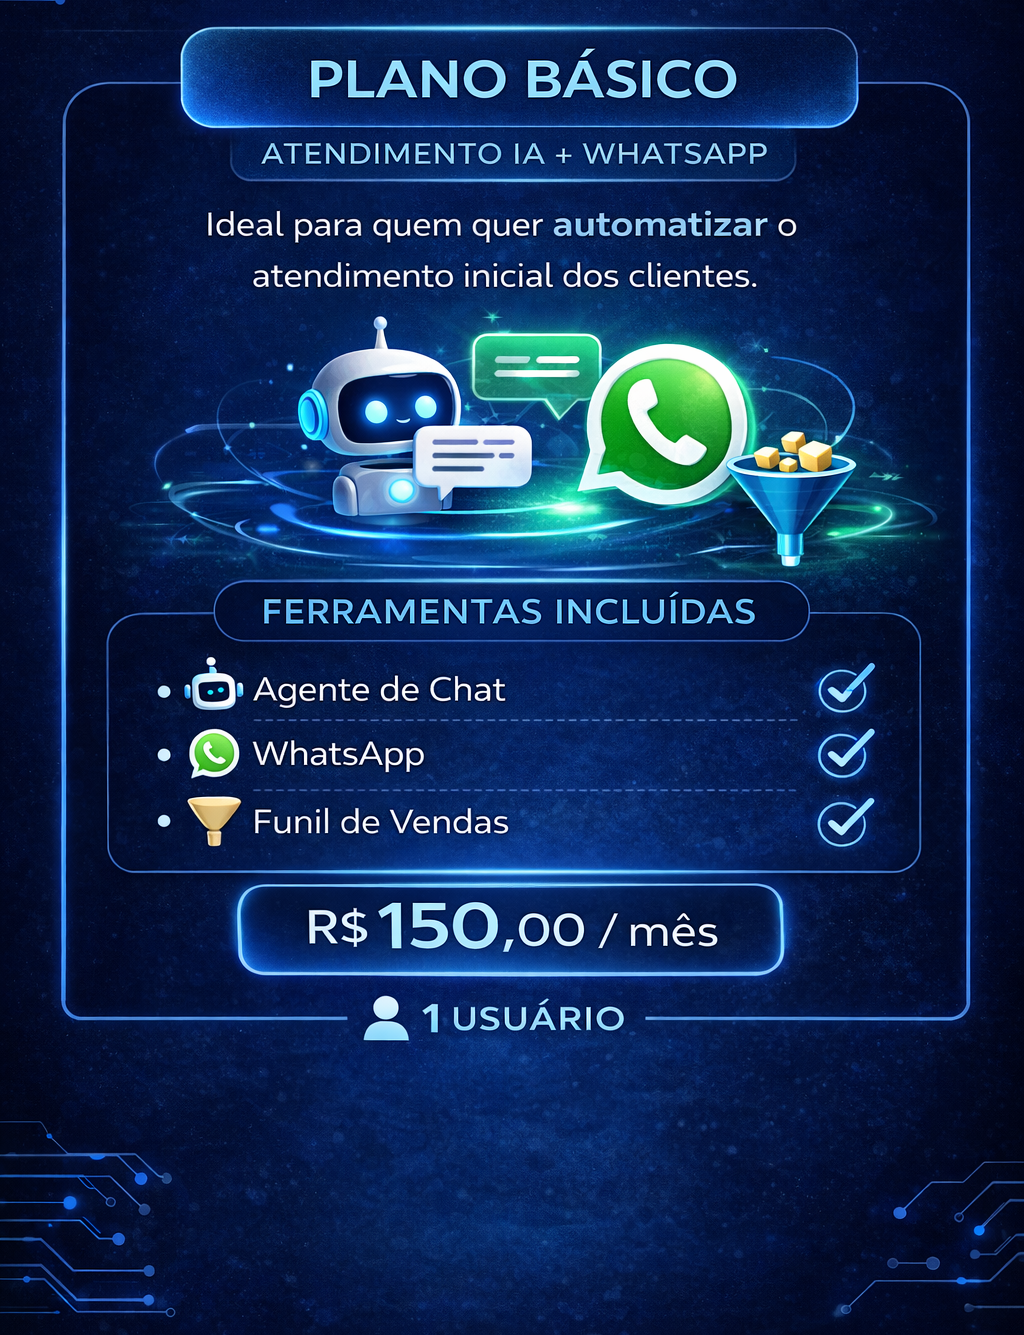
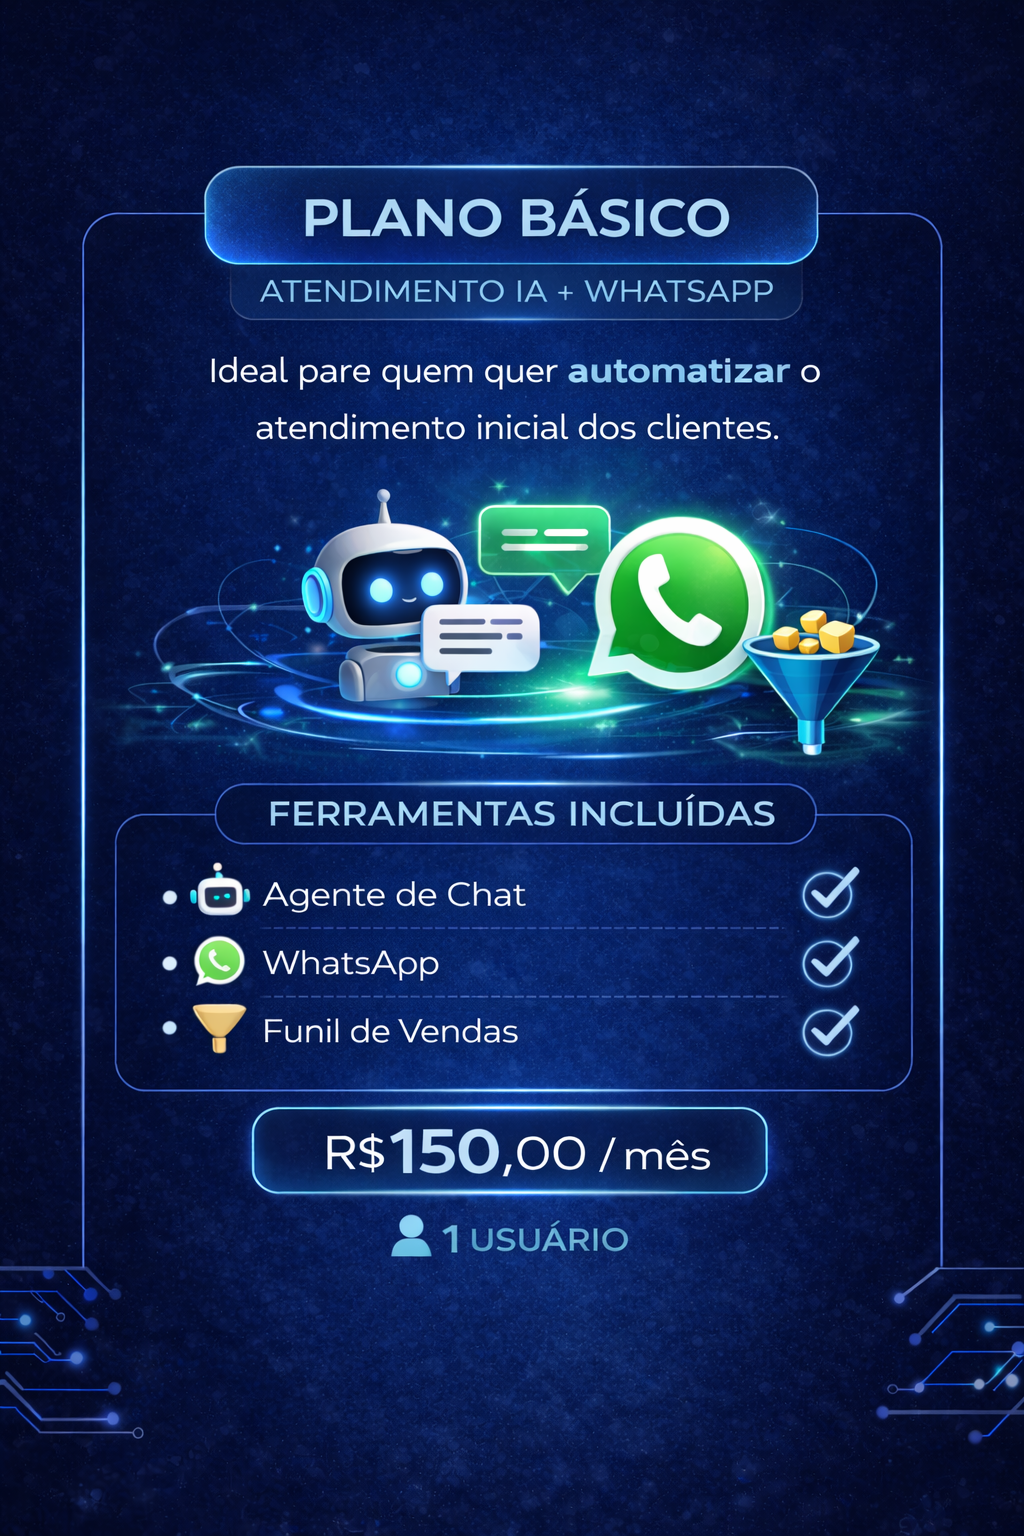
ajustes dos cards dos planos, e padronização

diff --git a/index.html b/index.html
@@ -81,7 +81,9 @@
 
             <!-- Plano Básico -->
             <div class="plano" data-plan="basico" data-tools="<table style='width:100%; border-collapse: collapse;'><tr><td style='padding:2px 8px 2px 0;'>• Atendimento IA</td><td style='padding:2px 0;'>• WhatsApp</td></tr><tr><td style='padding:2px 8px 2px 0;'>• Agente de Chat</td><td style='padding:2px 0;'>• Funil de Vendas</td></tr></table>">
-                <img src="/abc/plano-basico.png" alt="Plano Básico">
+                <div class="plano-visual">
+                    <img src="/abc/plano-basico.png" alt="Plano Básico">
+                </div>
                 <div class="btn-group">
                     <a href="http://app.labiaia.com.br/enrollment/new?product=LabiaIA+B%C3%A1sico+-+Atendimento+IA+%2B+WhatsApp" class="btn-teste">Teste grátis por 7 dias</a>
                     <small class="btn-subtext">Sem compromisso e sem cartão</small>
@@ -90,7 +92,9 @@
 
             <!-- Plano Premium (destaque) -->
             <div class="plano plano-premium" data-plan="premium" data-tools="<table style='width:100%; border-collapse: collapse;'><tr><td style='padding:2px 8px 2px 0;'>• Conversões</td><td style='padding:2px 0;'>• Agente de Chat</td></tr><tr><td style='padding:2px 8px 2px 0;'>• WhatsApp</td><td style='padding:2px 0;'>• Funil de Vendas</td></tr><tr><td style='padding:2px 8px 2px 0;'>• Redes Sociais</td><td style='padding:2px 0;'>• Produtos</td></tr><tr><td style='padding:2px 8px 2px 0;'>• Tarefas</td><td style='padding:2px 0;'>• Contatos</td></tr><tr><td style='padding:2px 8px 2px 0;'>• Automação</td><td style='padding:2px 0;'>• Cadência</td></tr></table>">
-                <img src="/abc/plano-premium.png" alt="Plano Premium">
+                <div class="plano-visual">
+                    <img src="/abc/plano-premium.png" alt="Plano Premium">
+                </div>
                 <div class="btn-group">
                     <a href="http://app.labiaia.com.br/enrollment/new?product=LabiaIA+Plano+Premium+%E2%80%94+Plataforma+Completa" class="btn-teste">Teste grátis por 7 dias</a>
                     <small class="btn-subtext">Sem compromisso e sem cartão</small>
@@ -99,7 +103,9 @@
 
             <!-- Plano Intermediário -->
             <div class="plano" data-plan="intermediario" data-tools="<table style='width:100%; border-collapse: collapse;'><tr><td style='padding:2px 8px 2px 0;'>• IA + CRM</td><td style='padding:2px 0;'>• CRM</td></tr><tr><td style='padding:2px 8px 2px 0;'>• Funil de Vendas</td><td style='padding:2px 0;'>• Produtos</td></tr><tr><td style='padding:2px 8px 2px 0;'>• Contatos</td><td style='padding:2px 0;'>• Agente de Chat</td></tr><tr><td style='padding:2px 8px 2px 0;'>• WhatsApp</td><td style='padding:2px 0;'></td></tr></table>">
-                <img src="/abc/plano-intermediario.png" alt="Plano Intermediário">
+                <div class="plano-visual">
+                    <img src="/abc/plano-intermediario.png" alt="Plano Intermediário">
+                </div>
                 <div class="btn-group">
                     <a href="http://app.labiaia.com.br/enrollment/new?product=LabiaIA+Plano+Intermedi%C3%A1rio+%E2%80%94+IA+%2B+CRM" class="btn-teste">Teste grátis por 7 dias</a>
                     <small class="btn-subtext">Sem compromisso e sem cartão</small>
@@ -589,7 +595,57 @@
             planosContainer.dataset.touchMoved = 'false';
         }
 
+        let planosReflexTimeout;
+
+        function initPlanosReflex() {
+            const planosVisuais = document.querySelectorAll('.plano-visual');
+            if (!planosVisuais.length) return;
+
+            planosVisuais.forEach((visual) => {
+                const randomDuration = (1.25 + Math.random() * 0.45).toFixed(2);
+                const randomAngle = (8 + Math.random() * 7).toFixed(1);
+                const randomMidX = (165 + Math.random() * 45).toFixed(0);
+                const randomEndX = (500 + Math.random() * 65).toFixed(0);
+                const randomMidY = (12 + Math.random() * 16).toFixed(0);
+                const randomEndY = (38 + Math.random() * 20).toFixed(0);
+
+                visual.style.setProperty('--plano-reflex-duration', `${randomDuration}s`);
+                visual.style.setProperty('--plano-reflex-angle', `${randomAngle}deg`);
+                visual.style.setProperty('--plano-reflex-mid-x', `${randomMidX}%`);
+                visual.style.setProperty('--plano-reflex-end-x', `${randomEndX}%`);
+                visual.style.setProperty('--plano-reflex-mid-y', `${randomMidY}%`);
+                visual.style.setProperty('--plano-reflex-end-y', `${randomEndY}%`);
+                visual.classList.remove('reflex-active');
+            });
+
+            if (planosReflexTimeout) {
+                window.clearTimeout(planosReflexTimeout);
+            }
+
+            const triggerNextReflex = (lastIndex = -1) => {
+                const candidates = Array.from(planosVisuais).filter((_, index) => index !== lastIndex);
+                const nextVisual = candidates[Math.floor(Math.random() * candidates.length)] || planosVisuais[0];
+                const nextIndex = Array.from(planosVisuais).indexOf(nextVisual);
+                const durationSeconds = parseFloat(getComputedStyle(nextVisual).getPropertyValue('--plano-reflex-duration')) || 1.45;
+                const durationMs = durationSeconds * 1000;
+
+                planosVisuais.forEach((visual) => visual.classList.remove('reflex-active'));
+                void nextVisual.offsetWidth;
+                nextVisual.classList.add('reflex-active');
+
+                planosReflexTimeout = window.setTimeout(() => {
+                    nextVisual.classList.remove('reflex-active');
+                    planosReflexTimeout = window.setTimeout(() => {
+                        triggerNextReflex(nextIndex);
+                    }, 1000);
+                }, durationMs);
+            };
+
+            planosReflexTimeout = window.setTimeout(() => triggerNextReflex(), 400);
+        }
+
         window.addEventListener('load', initPlanosCarousel);
+        window.addEventListener('load', initPlanosReflex);
         window.addEventListener('resize', initPlanosCarousel);
 
         // --- MODAL POPUP PARA PLANOS ---

diff --git a/style.css b/style.css
@@ -199,48 +199,105 @@ h1 { font-size: 2.1rem; line-height: 1.2; margin-bottom: 20px; }
     align-items: center;
 }
 
-.plano img {
-    width: 260px;
+.plano-visual {
+    position: relative;
+    display: inline-block;
     border-radius: 14px;
-    transition: 0.35s;
-    animation: flutuarPlano 3.8s ease-in-out infinite;
+    overflow: hidden;
+    --plano-reflex-duration: 1.45s;
+    --plano-reflex-angle: 10deg;
+    --plano-reflex-start-x: -360%;
+    --plano-reflex-mid-x: 180%;
+    --plano-reflex-end-x: 520%;
+    --plano-reflex-start-y: -42%;
+    --plano-reflex-mid-y: 16%;
+    --plano-reflex-end-y: 46%;
+    --plano-reflex-color-1: rgba(255, 255, 255, 0);
+    --plano-reflex-color-2: rgba(255, 255, 255, 0.30);
+    --plano-reflex-color-3: rgba(255, 255, 255, 0.92);
+    --plano-reflex-color-4: rgba(255, 255, 255, 0.34);
+    --plano-reflex-color-5: rgba(255, 255, 255, 0);
+}
+
+.plano[data-plan="basico"] .plano-visual,
+.plano[data-plan="intermediario"] .plano-visual {
+    transform: translateY(38px);
+}
+
+.plano[data-plan="basico"] .btn-group,
+.plano[data-plan="intermediario"] .btn-group {
+    transform: translateY(38px);
+}
+
+.plano-visual::after {
+    content: "";
+    position: absolute;
+    top: -42%;
+    left: -120%;
+    width: 42%;
+    height: 220%;
+    background: linear-gradient(135deg,
+        var(--plano-reflex-color-1) 0%,
+        var(--plano-reflex-color-2) 34%,
+        var(--plano-reflex-color-3) 50%,
+        var(--plano-reflex-color-4) 66%,
+        var(--plano-reflex-color-5) 100%);
+    transform: rotate(var(--plano-reflex-angle));
+    pointer-events: none;
+    mix-blend-mode: screen;
+    filter: blur(1px);
+    opacity: 0;
+}
+
+.plano-visual.reflex-active::after {
+    animation: brilhoPlano var(--plano-reflex-duration) linear forwards;
+}
+
+.plano-premium .plano-visual {
+    --plano-reflex-color-1: rgba(255, 214, 102, 0);
+    --plano-reflex-color-2: rgba(255, 214, 102, 0.34);
+    --plano-reflex-color-3: rgba(255, 236, 179, 0.96);
+    --plano-reflex-color-4: rgba(255, 214, 102, 0.38);
+    --plano-reflex-color-5: rgba(255, 214, 102, 0);
+}
+
+@keyframes brilhoPlano {
+    0% {
+        transform: translate(var(--plano-reflex-start-x), var(--plano-reflex-start-y)) rotate(var(--plano-reflex-angle));
+        opacity: 0;
+    }
+    18% {
+        opacity: 1;
+    }
+    50% {
+        transform: translate(var(--plano-reflex-mid-x), var(--plano-reflex-mid-y)) rotate(var(--plano-reflex-angle));
+        opacity: 0.95;
+    }
+    100% {
+        transform: translate(var(--plano-reflex-end-x), var(--plano-reflex-end-y)) rotate(var(--plano-reflex-angle));
+        opacity: 0;
+    }
+}
+
+.plano img {
+    width: 290px;
+    display: block;
+    border-radius: 14px;
+    transition: transform 0.35s ease, box-shadow 0.35s ease;
     cursor: pointer;
 }
 
 /* efeito hover */
 
 .plano img:hover {
-    transform: translateY(-5px) scale(1.03);
+    transform: scale(1.02);
+    box-shadow: 0 16px 34px rgba(0, 140, 255, 0.18);
 }
 
 /* ===== PREMIUM DESTAQUE ===== */
 
 .plano-premium img {
-    width: 300px;
-    transform: scale(1.05);
-    animation: flutuarPlanoPremium 4.2s ease-in-out infinite;
-}
-
-.plano:nth-child(1) img {
-    animation-delay: 0s;
-}
-
-.plano:nth-child(2) img {
-    animation-delay: 0.25s;
-}
-
-.plano:nth-child(3) img {
-    animation-delay: 0.5s;
-}
-
-@keyframes flutuarPlano {
-    0%, 100% { transform: translateY(0); }
-    50% { transform: translateY(-10px); }
-}
-
-@keyframes flutuarPlanoPremium {
-    0%, 100% { transform: scale(1.05) translateY(0); }
-    50% { transform: scale(1.05) translateY(-12px); }
+    width: 290px;
 }
 
 /* ===== BOTÃO ===== */
@@ -1310,18 +1367,15 @@ footer p, footer a {
         animation-delay: 2s !important; /* Aguarda 2 segundos antes de começar */
     }
 
-    @media (max-width: 1024px) {
+@media (max-width: 1024px) {
 
     .planos-container {
         gap: 30px;
     }
 
-    .plano img {
-        width: 220px;
-    }
-
+    .plano img,
     .plano-premium img {
-        width: 280px;
+        width: 250px;
     }
 
 }
@@ -1418,11 +1472,7 @@ footer p, footer a {
         font-size: 28px;
     }
 
-    .plano img {
-        width: 90%;
-        max-width: 280px;
-    }
-
+    .plano img,
     .plano-premium img {
         width: 95%;
         max-width: 300px;
@@ -1437,8 +1487,7 @@ footer p, footer a {
 }
 
 @media (prefers-reduced-motion: reduce) {
-    .plano img,
-    .plano-premium img {
+    .plano-visual::after {
         animation: none !important;
     }
 }
@@ -1460,6 +1509,7 @@ footer p, footer a {
         flex: 0 0 auto;
         min-width: 280px;
         width: 280px;
+        margin-top: 0;
     }
 
     .plano-premium {
